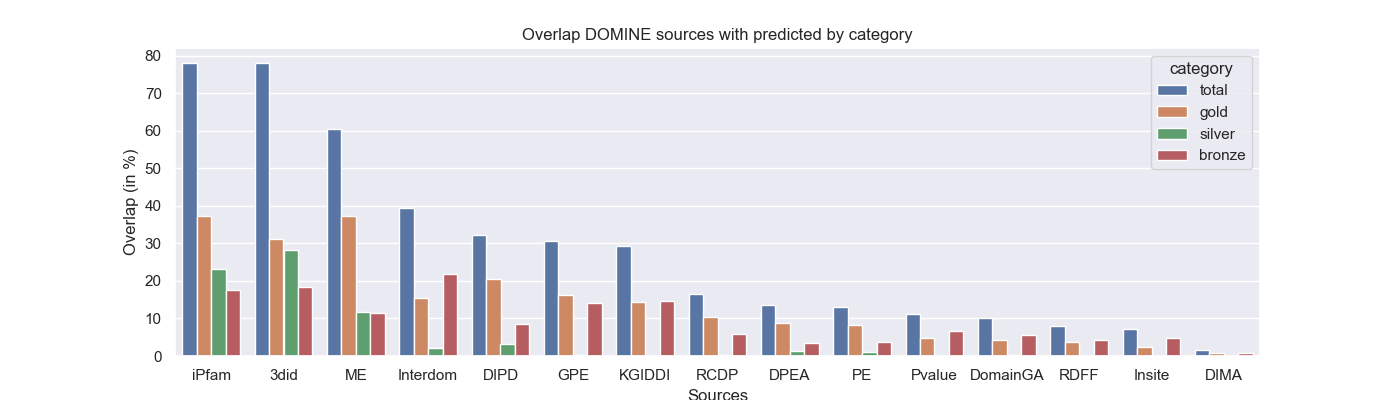
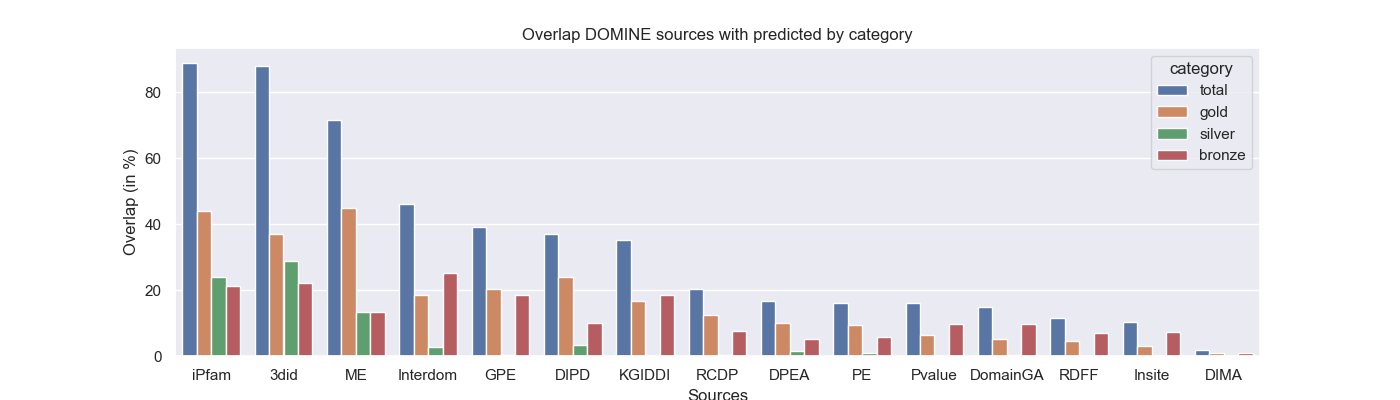
fixed a critical bug, updated images

diff --git a/ppidm_validation/did_comparison.py b/ppidm_validation/did_comparison.py
@@ -18,7 +18,7 @@ def sort_dict(dictionary: dict):
 
 def read_interactions(file: str, third_col=None):
     interactions = []
-    header = False
+    header = True
     with open(file, 'r') as f:
         for line in f.readlines():
             if not header:
@@ -29,6 +29,7 @@ def read_interactions(file: str, third_col=None):
                 if line[2] not in third_col:
                     continue
             assoc = (line[0], line[1]) if line[0] < line[1] else (line[1], line[0])
+            # assoc = (line[0], line[1])
             interactions.append(assoc)
     return interactions
 
@@ -71,7 +72,7 @@ def filter_domine_sources():
                     PF2 = part
                     continue
                 # assoc = f"{PF1};{PF2}" if PF1 > PF2 else f"{PF2};{PF1}"
-                assoc = (PF1, PF2) if PF1 > PF2 else (PF2, PF1)
+                assoc = (PF1, PF2) if PF1 < PF2 else (PF2, PF1)
                 if part == "1":
                     interactions[sources[index]].append(assoc)
     return interactions
@@ -92,7 +93,7 @@ def venn_diagrams(did_2017, did_2022, predicted, domine, category='gold'):
     venn2([set(domine), set(predicted)], set_labels=('domine', 'predicted'), ax=ax2)
 
     plt.suptitle(f'Overlap known new databases and predicted ({category}) interactions')
-    plt.savefig(f'pictures/overlap_domine_3did_{category}.png')
+    plt.savefig(f'../pictures/overlap_domine_3did_{category}.png')
     plt.show()
 
 
@@ -102,7 +103,7 @@ def upset_plots(unformatted_dict: dict, title='Generic UpsetPlot', min_subset_si
         ax_dict = UpSet(upset_format, show_counts=True, min_subset_size=min_subset_size).plot()
     else:
         ax_dict = UpSet(upset_format, show_counts=True).plot()
-    plt.savefig(f'pictures/{title}.png')
+    plt.savefig(f'../pictures/{title}.png')
     plt.show()
 
 
@@ -133,7 +134,7 @@ def domine_pairwise_comparison(predicted: list[tuple[str, str]], domine: dict[li
     plt.xticks(rotation=45)
     plt.tight_layout()
     if save:
-        plt.savefig('pictures/domine_comparison.png')
+        plt.savefig('../pictures/domine_comparison.png')
     plt.show()
 
 
@@ -146,6 +147,7 @@ def domine_pairwise_comparison_categories(predicted: dict[str, list[tuple[str, s
             overlap = len(set(value) & set(predicted[pred_key]))
             relative_overlaps.append((overlap / len(set(value))) * 100)
         overlap_relative_domine[key] = relative_overlaps
+        print(f"Source: {key} \t Overlaps: {relative_overlaps} \t Sum: {sum(relative_overlaps)}")
 
     overlap_relative_domine = sort_dict(overlap_relative_domine)
     df = pd.DataFrame(overlap_relative_domine)
@@ -166,7 +168,7 @@ def domine_pairwise_comparison_categories(predicted: dict[str, list[tuple[str, s
     plt.title("Overlap DOMINE sources with predicted by category")
 
     if save:
-        plt.savefig('pictures/domine_comparison_category.png')
+        plt.savefig('../pictures/domine_comparison_category.png')
     plt.show()
 
 
@@ -186,18 +188,15 @@ all_known_ids = pickle.load(open('../pickles/all_known_ids.pickle', 'rb'))
 if __name__ == '__main__':
     # removing domains that were not known at the time of PPIDM
     did_2022_clean = remove_unknown_domains(all_known_ids, did_2022)
-    # domine_clean = remove_unknown_domains(all_known_ids, domine)
-    # domine_clean = filter_domine()
-    # domine_clean = domine
 
     # visualisation
-    # domine_pairwise_comparison_categories(predicted=inter_predicted_dict, domine=domine, save=True)
+    # domine_pairwise_comparison_categories(predicted=inter_predicted_dict, domine=filter_domine_sources(), save=True)
 
     # did = {'did_2017': did_2017, 'did_2022': did_2022_clean, 'predicted': inter_predicted}
     # domine['predicted'] = inter_predicted
     # upset_plots(did, 'upset_did_comparison_count')
     # upset_plots(domine, 'upset_domine_comparison', min_subset_size=100)
-    # venn_diagrams(did_2017, did_2022_clean, interactions_gold, domine, category='gold')
+    # venn_diagrams(did_2017, did_2022_clean, inter_predicted, domine, category='all')
 
 
     # random info
@@ -205,8 +204,9 @@ if __name__ == '__main__':
     # print("overlap 3did_2022:", (1 - (len(set(did_2022) - set(did_2017) - set(inter_predicted)) /
     # len(set(did_2022) - set(did_2017)))) * 100, "%")
     # print(len(interactions_gold), len(inter_silver), len(inter_bronze))
-    # print("total predicted:", len(set(domine_clean) & set(inter_predicted)))
-    # print("Length of interactions_gold:", len(inter_predicted))
+    print("domine:", len(domine))
+    print("total predicted:", len(set(domine) & set(inter_predicted)))
+    print("Length of interactions_gold:", len(inter_predicted))
     # print("Length of did_2022:", len(did_2022))
     # print("Length of did_2017:", len(did_2017))
     # print("Unique 2022:", len(set(did_2017) - set(did_2022)))

diff --git a/ppidm_run/main.py b/ppidm_run/main.py
@@ -8,7 +8,7 @@ source_address = '../sourcedata/'
 
 import ppidm_run.interaction_clear_3did_kbdock as ic3k
 import ppidm_run.process_tables as pt
-import ppidm_run.filtering
+import ppidm_run.filtering as filtering
 import ppidm_run.pvalue as pv
 
 
@@ -20,7 +20,7 @@ if __name__ == '__main__':
     # This part gets all the domain-protein information (what proteins are associated with which domains etc.)
     # seqDom, seqpdbchain, pdbchainDom = pt.read_chain_dom()
     # pickle.dump((seqDom, seqpdbchain, pdbchainDom), open('../pickles/seqDom_seqpdbchain_pdbchainDom.pickle', 'wb'))
-    seqDom, seqpdbchain, pdbchainDom = pickle.load(open('../pickles/seqDom_seqpdbchain_pdbchainDom.pickle', 'rb'))
+    # seqDom, seqpdbchain, pdbchainDom = pickle.load(open('../pickles/seqDom_seqpdbchain_pdbchainDom.pickle', 'rb'))
     # print("Loading files from pickle took:", round(timeit.default_timer() - start, 1), "seconds")
 
     # This calculates all the similarity scores for each source
@@ -35,7 +35,7 @@ if __name__ == '__main__':
     # filtering.create_wrong_assocations()
     #
     # This function assigns the interactions. It also does all the "hyperparameter optimization"
-    # filtering.assign_interaction()
+    filtering.assign_interaction()
     #
     # ic3k.intersection_CAPS_3did_kbdock()
     # ic3k.kbdock_union_3did()
@@ -43,8 +43,8 @@ if __name__ == '__main__':
     # This part calculates and sorts all the p-values for every domain-domain interaction
     # for i in sources:
     #      pv.pvalue_calculation(i, seqDom, pdbchainDom)
-    pv.accumulate_pvalues()
-    pv.gold_silver_bronze()
+    # pv.accumulate_pvalues()
+    # pv.gold_silver_bronze()
 
     # pv.one_to_one()
     print("Took:", timeit.default_timer() - start)

diff --git a/ppidm_run/filtering.py b/ppidm_run/filtering.py
@@ -265,14 +265,14 @@ def assign_interaction():
     # gold_standard = pickle.load(open('pickles/random_gold.pickle', 'rb'))
 
     # rewire only train set!
-    train_set = random.sample(gold_standard, int(len(gold_standard) / 2))
-    # train_set = pickle.load(open('pickles/random_train.pickle', 'rb'))
+    # train_set = random.sample(gold_standard, int(len(gold_standard) / 2))
+    train_set = pickle.load(open('../pickles/random_train.pickle', 'rb'))
 
     test_set = gold_standard - set(train_set)
     # rewired test set can't be gold_std - train since train is random. test will now be half of gold_std
     # test_set = gold_standard - set(random.sample(gold_standard, int(len(gold_standard) / 2)))
-    # test_set = random.sample(gold_standard, int(len(gold_standard) / 2))
-    # gold_standard = pickle.load(open('pickles/random_gold.pickle', 'rb'))
+    test_set = random.sample(gold_standard, int(len(gold_standard) / 2))
+    gold_standard = pickle.load(open('../pickles/random_gold.pickle', 'rb'))
     print("Length of gold standard:", len(gold_standard))
     print("Length of train set:", len(train_set))
     print("Length of test set:", len(test_set))
@@ -567,6 +567,7 @@ def assign_interaction():
             f"Current threshold: {threshold} | Best threshold: {bold + str(best_threshold) + end} | Count all found: {count_all_found}\n")
         count += 1
 
+    return
     result_calculated = open(result_address + 'pfam-pfam-interaction-calculated', 'w')
     result_merged = open(result_address + 'pfam-pfam-interaction-merged', 'w')
     for datum1 in info:
